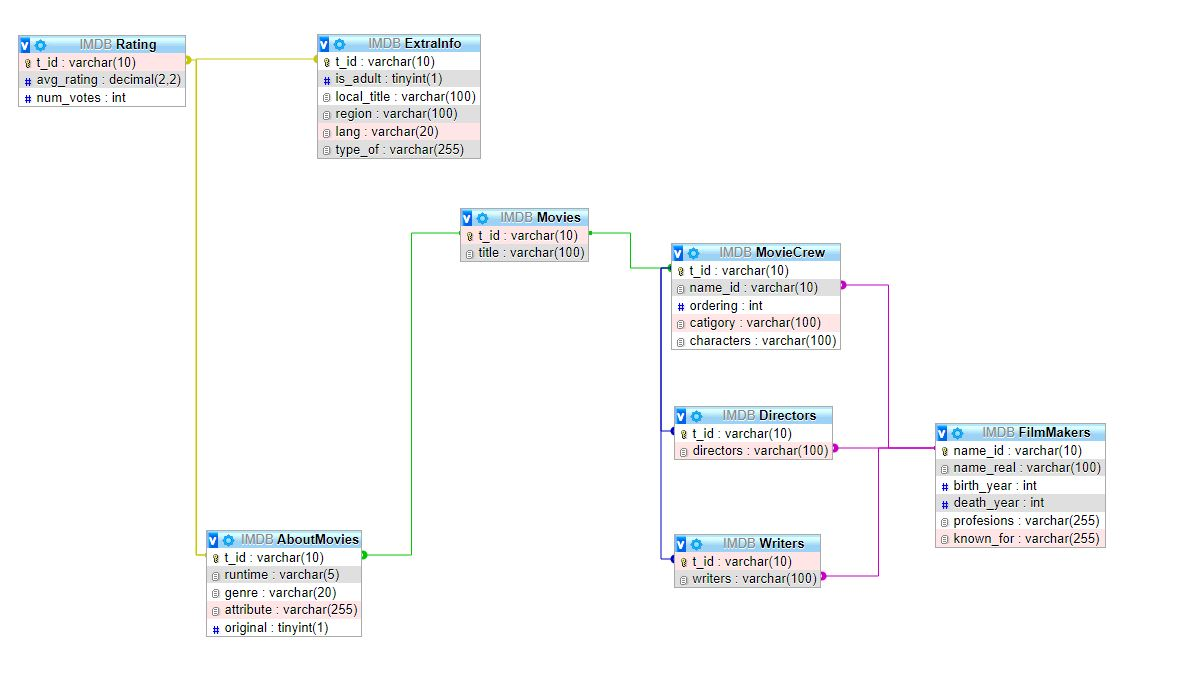
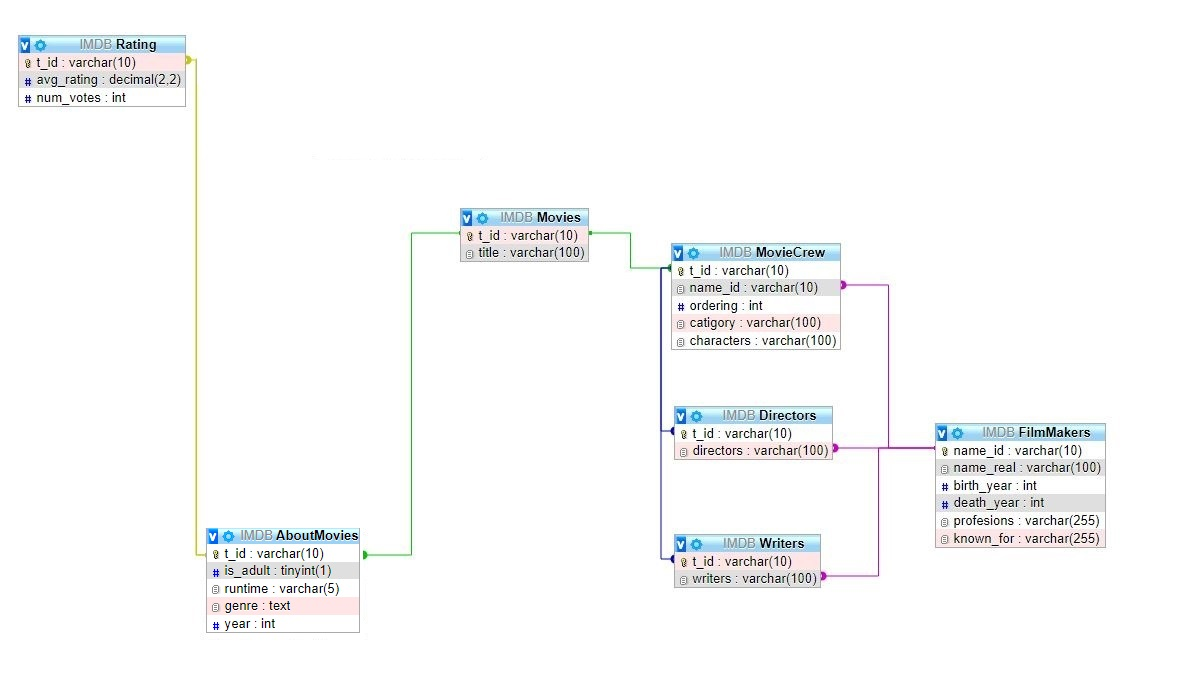
loaded

diff --git a/Assignments/A05/API2/data.py b/Assignments/A05/API2/data.py
@@ -1,20 +1,171 @@
 import csv
-import glob
 import json
 import mysql.connector
-import json
 
 jfile = open('Config.json')
 data = json.load(jfile)
 
-cnx = mysql.connector.connect(user='dakota', password = data['DBPASS'], host = 'DakotaServer', database = 'SQLZoo')
+cnx = mysql.connector.connect(user='dakota', password = data['DBPASS'], host = 'DakotaServer', database = 'IMDB')
 cursor = cnx.cursor()
 
-files = glob.glob('datasets.imdbws.com/*.tsv')
+file = 'datasets.imdbws.com/name.basics.tsv'
 
-for file in files:
-    print(file)
-    with open(file, newline = '\n') as tsvfile:
+sql = 'INSERT INTO FilmMakers VALUES(%s, %s, %s, %s, %s, %s)'
+
+with open(file, newline = '\n') as tsvfile:
+    movieData = csv.reader(tsvfile, delimiter ='\t')
+    for row in movieData:
+        temp = row[4].split(',')
+        if ('actor' in temp) or ('writer' in temp) or ('director' in temp) and 1 == 0:
+            if row[1] == '\\N':
+                name = None
+            else:
+                name = row[1]
+            
+            if row[2] == '\\N':
+                birthYear = None
+            else:
+                birthYear = row[2]
+            
+            if row[3] == '\\N':
+                deathYear = None
+            else:
+                deathYear = row[3]
+            
+            if row[4] == '\\N':
+                professions = None
+            else:
+                professions = row[4]
+            
+            if row[5] == '\\N':
+                knownFor = None
+            else:
+                knownFor = row[5]
+            
+            actorID = row[0]
+            
+            data = (actorID, name, birthYear, deathYear, professions, knownFor)
+            cursor.execute(sql, data)
+            cnx.commit()
+            print(row)
+
+file = 'datasets.imdbws.com/title.crew.tsv'
+sql1 = 'INSERT INTO Directors VALUES (%s, %s)'
+sql2 = 'INSERT INTO Writers VALUES (%s, %s)'
+
+with open(file, newline = '\n') as tsvfile:
+    movieData = csv.reader(tsvfile, delimiter ='\t')
+    for row in movieData:
+        if 'tconst' not in row:
+            if row[1] == '\\N':
+                directors = None
+            else:
+                directors = row[1]
+        
+            if row[2] == '\\N':
+                writers = None
+            else:
+                writers = row[2]
+                
+            data1 = (row[0], directors)
+            data2 = (row[0], writers)
+            cursor.execute(sql1, data1)
+            cnx.commit()
+            cursor.execute(sql2, data2)
+            cnx.commit()
+            print(row)
+
+file = 'datasets.imdbws.com/title.principals.tsv'
+sql = "INSERT INTO MovieCrew VALUES (%s, %s, %s, %s, %s)"
+
+with open(file, newline = '\n') as tsvfile:
+    movieData = csv.reader(tsvfile, delimiter ='\t')
+    for row in movieData:
+        if 'tconst' not in row:
+            print(row)
+            if row[1] == '\\N':
+                order = None
+            else:
+                order = row[1]
+            
+            if row[2] == '\\N':
+                name = None
+            else:
+                name = row[2]
+            
+            if row[3] == '\\N':
+                cat = None
+            else:
+                cat = row[3]
+            
+            if row[5] == '\\N':
+                char = None
+            else:
+                char = row[5]
+            
+            data = (row[0], name, order, cat, char)
+            cursor.execute(sql, data)
+            cnx.commit()
+
+file = 'datasets.imdbws.com/title.ratings.tsv'
+sql = "INSERT INTO Rating VALUES (%s, %s, %s)"
+
+with open(file, newline = '\n') as tsvfile:
+    movieData = csv.reader(tsvfile, delimiter ='\t')
+    for row in movieData:
+        if 'tconst' not in row:
+            print(row)
+            if row[1] == '\\N':
+                rating = None
+            else:
+                rating = row[1]
+            
+            if row[2] == '\\N':
+                vote = None
+            else:
+                vote = row[2]
+            
+            data = (row[0], rating, vote)
+            cursor.execute(sql, data)
+            cnx.commit()
+
+file = 'datasets.imdbws.com/title.basics.tsv'
+sql1 = "INSERT INTO Movies VALUES (%s, %s)"
+sql2 = "INSERT INTO AboutMovies VALUES (%s, %s, %s, %s, %s)"
+
+with open(file, newline = '\n') as tsvfile:
         movieData = csv.reader(tsvfile, delimiter ='\t')
         for row in movieData:
-            print('^'.join(row))
+            if 'tconst' not in row and row[1] == 'movie':
+                print(row)
+                if row[2] == '\\N':
+                    title = None
+                else:
+                    title = row[2]
+                
+                if row[4] == '\\N':
+                    adult = None
+                else:
+                    adult = row[4]
+                
+                if row[5] == '\\N':
+                    syear = None
+                else:
+                    syear = row[5]
+
+                if row[7] == '\\N':
+                    run = None
+                else:
+                    run = row[7]
+
+                if row[8] == '\\N':
+                    gen = None
+                else:
+                    gen = row[8]
+                
+                data1 = (row[0], title)
+                data2 = (row[0], adult, run, gen, syear)
+                cursor.execute(sql1, data1)
+                cnx.commit()
+                cursor.execute(sql2, data2)
+                cnx.commit()
